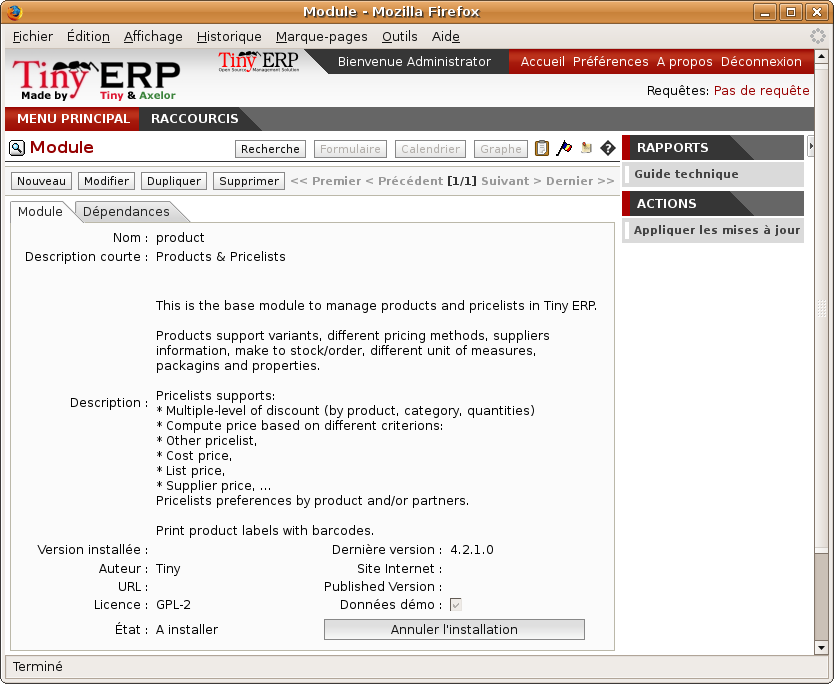
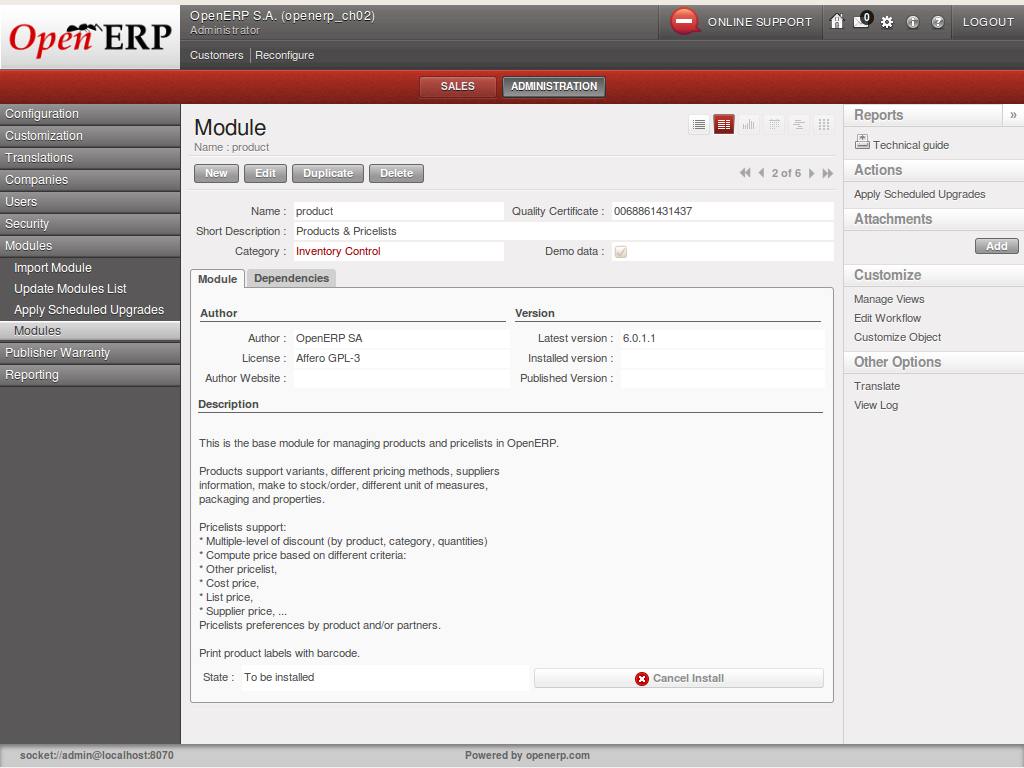
[IMP]: Guided Tour > Installing new functionality

diff --git a/1/1_2_Guided_Tour/1_2_Guided_Tour_install_functionality.rst b/1/1_2_Guided_Tour/1_2_Guided_Tour_install_functionality.rst
@@ -7,13 +7,13 @@ Installing new functionality
 
 All of Open ERP's functionality is contained in its many and various modules. Many of these, the
 core modules, are automatically loaded during the initial installation of the system and can be
-updated online later. Although they're mostly not installed in your database at the outset, they're
+updated online later. Although they are mostly not installed in your database at the outset, they are
 available on your computer for immediate installation. Additional modules can also be loaded online
-from the official Open ERP site http://openerp.com. These modules are inactive when they're loaded
+from the official Open ERP site http://openerp.com. These modules are inactive when they are loaded
 into the system, and can then be installed in a separate step.
 
-You'll start by checking if there are any updates available online that apply to your initial
-installation. Then you'll install a CRM module to complete your existing database.
+You will start by checking if there are any updates available online that apply to your initial
+installation. Then you will install a CRM module to complete your existing database.
 
 .. index::
   single: module; upgrading
@@ -21,30 +21,14 @@ installation. Then you'll install a CRM module to complete your existing databas
 Updating the Modules list
 ---------------------------
 
-Click :menuselection:`Administration --> Modules Management --> Update Modules List` to start the
-updating tool. The :guilabel:`Scan for new modules` window opens showing the addresses that
-Open ERP will look in for downloading new modules (known as the repositories), and updating
+Click :menuselection:`Administration --> Modules --> Update Modules List` to start the
+updating tool. The :guilabel:`Module Update` window opens notifying the user that
+Open ERP will look at the server side for adding new modules and updating
 existing ones.
 
-.. tip:: Remote module repositories
-
-	If the repository list doesn't reflect your needs then you can edit it from
-	:menuselection:`Administration --> Modules Management --> Repository List`. There you can link to new
-	repositories by adding their URLs and disable listed ones by unchecking their 
-	:guilabel:`Active` checkbox. If
-	you're not connected to the Internet then you probably want to disable anything there.
-
-	Your Open ERP installation must be configured with its ``addons`` directory as writable for you to be
-	able to download anything at all. If it hasn't been, then you may need the assistance of a systems
-	administrator to change your server's settings so that you can install new modules.
-
-Click :guilabel:`Check New Modules` to start the download from the specified locations. When it's
-complete you'll see a :guilabel:`New Modules` window indicating how many new modules were downloaded
-and how many existing modules were updated. Click :guilabel:`OK` to return to the updated list.
-
-It won't matter in this chapter if you can't download anything, but some of the later chapters refer
-to modules that aren't part of the core installation and have to be obtained from a remote
-repository.
+Click :guilabel:`Update` to start the update on the server side. When it is
+complete you will see a :guilabel:`Module update result` section indicating how many new modules were added
+and how many existing modules were updated. Click :guilabel:`Open Modules` to return to the updated list.
 
 .. note:: Modules
 
@@ -61,8 +45,9 @@ repository.
 	and :guilabel:`Next`
 	and selecting a different number from the default of 20.
 
-	If you use the GTK client you can search, as you would with the web client, or use the + icon to
-	the top left of the window to change the number of entries returned by the search from its default
+	If you use the GTK client you can search, as you would with the web client, or use the selection field
+	(currently showing 80) to
+	the top right of the window to change the number of entries returned by the search from its default
 	limit of 80, or its default offset of 0 (starting at the first entry) in the whole list.
 
 .. index::
@@ -75,12 +60,12 @@ Installing a module
 .. index::
    single: module; product
 
-You'll now install a module named :mod:`product`, which will enable you to manage the company's
-products. This is part of the core installation, so you don't need to load anything to make this
-work, but isn't installed in the Minimal Profile.
+You will now install a module named :mod:`product`, which will enable you to manage the company's
+products. This is part of the core installation, so you do not need to load anything to make this
+work.
 
-Open the list of uninstalled modules from :menuselection:`Administration --> Modules Management -->
-Modules --> Uninstalled modules`. Search for the module by entering the name :mod:`product` in the search
+Open the list of modules from :menuselection:`Administration --> Modules -->
+Modules`. Search for the module by entering the name :mod:`product` in the :guilabel:`Name` field on the search
 screen then clicking it in the list that appears below it to open it. The form that describes the
 module gives you useful information such as its version number, its status and a review of its
 functionality. Click :guilabel:`Schedule for Installation` 
@@ -98,23 +83,21 @@ and the status of the module changes to :guilabel:`To be installed`.
 
 	If you select a module in any of the module lists by clicking on a module line and then on
 	:guilabel:`Technical Guide` at the top right of the window, Open ERP produces a technical report
-	on that module. It's helpful only if the module is installed, so the menu
-	:menuselection:`Administration --> Modules Management --> Modules --> Installed Modules` produces the most
-	fruitful list.
+	on that module. It is helpful only if the module is installed.
 
 	This report comprises a list of all the objects and all the fields along with their descriptions.
-	The report adapts to your system and reflects any modifications you've made and all the other
-	modules you've installed.
+	The report adapts to your system and reflects any modifications you have made and all the other
+	modules you have installed.
 
-Click :guilabel:`Apply Scheduled Upgrades` then :guilabel:`Start Upgrade` on the :guilabel:`System Upgrade`
-form that appears. Close the window when the operation has completed. Return to the main menu you'll
+Then, either use the menu :menuselection:`Administration --> Modules --> Apply Scheduled Upgrades`, or from the :guilabel:`Actions` section click :guilabel:`Apply Scheduled Upgrades`, then :guilabel:`Start update` on the :guilabel:`Module Upgrade`
+form that appears. Close the window when the operation has completed. Return to the :guilabel:`Sales` menu; you will
 see the new menu :menuselection:`Products` has become available.
 
 .. tip::  Refreshing the menu in the GTK client
 
-	After an update in the GTK client you'll have to open a new menu to refresh the content –
-	otherwise you won't see the new menu item. To do that use the window menu :menuselection:`Form -->
-	Refresh/Cancel`.
+	After an update in the GTK client you will have to open a new menu to refresh the content –
+	otherwise you will not see the new menu item. To do that use the window menu :menuselection:`Form -->
+	Reload / Undo` or use the shortcut :kbd:`Ctrl+R`.
 
 Installing a module with its dependencies
 -----------------------------------------
@@ -123,28 +106,27 @@ Installing a module with its dependencies
    single: module; crm
 
 Now install the CRM module (Customer Relationship Management) using the same process as before.
-Start from :menuselection:`Administration --> Modules Management --> Modules --> Uninstalled modules`.
+Start from :menuselection:`Administration --> Modules --> Modules`.
 
-	#. 	Get the list of modules to install, and search for the :mod:`crm` module in that list.
+	#.  Get the list of modules, and search for the :mod:`crm` module in that list.
 	
-	#.	Schedule the module for installation by clicking :guilabel:`Schedule for Installation`.
+	#.  Schedule the module for installation by clicking :guilabel:`Schedule for Installation`.
 	
 	#.  Do the same for :mod:`account`. 
 	
 	#.  Click :guilabel:`Apply Scheduled Upgrades` on the action toolbar to the right.
 
-	#.	Click :guilabel:`Start Upgrade` to install both modules. 
+	#.  Click :guilabel:`Start update` to install both modules. 
 	
-	#.  After a wait, when the installation is complete, click :guilabel:`Start Configuration`.
+	#.  After a wait, when the installation is complete, you may close this dialog box.
 	
-	#.  Accept the defaults for accounts setup and select ``None`` for the chart of accounts.
-	
-	#.  You'll see details of all the features installed by the modules on a new
+	#.  You will see details of all the features installed by the modules on a new
 	    :guilabel:`Features` tab on the module form. 
 
-When you return to the main menu you'll find the new customer relationship management menu
-:menuselection:`CRM & SRM`. You'll also see all the accounting functions that are now available in
-the :menuselection:`Financial Management` menu.
+When you return to the :menuselection:`Sales` menu you will find the new menu items under it like
+:menuselection:`Sales --> Leads`, :menuselection:`Sales --> Opportunities`, :guilabel:`Meetings` and
+:guilabel:`Phone Calls` which are a part of the customer relationship management system. You will also see
+all the accounting functions that are now available in the :menuselection:`Accounting` menu.
 
 There is no particular relationship between the modules installed and the menus added. Most of the
 core modules add complete menus but some also add submenus to menus already in the system. Other
@@ -157,30 +139,30 @@ forms, or simply additional demonstration data or some settings specific to a gi
 
 .. note::  Dependencies between modules
 
-	The module form shows two tabs before it's installed. 
+	The module form shows two tabs before it is installed. 
 	The first tab gives basic information about the module and the
 	second gives a list of modules that this module depends on. So when you install a module, Open ERP
 	automatically selects all the necessary dependencies to install this module.
 
-	That's also how you develop the profile modules: they simply define a list of modules that you want
+	That is also how you develop the profile modules: they simply define a list of modules that you want
 	in your profile as a set of dependencies.
 
-Although you can install a module and all its dependencies at once, you can't remove them in one
-fell swoop – you'd have to uninstall module by module. Uninstalling is more complex than
+Although you can install a module and all its dependencies at once, you cannot remove them in one
+fell swoop – you would have to uninstall module by module. Uninstalling is more complex than
 installing because you have to handle existing system data.
 
 .. note::  Uninstalling modules
 
-	Although it works quite well, uninstalling modules isn't perfect in Open ERP. It's not guaranteed
+	Although it works quite well, uninstalling modules is not perfect in Open ERP. It is not guaranteed
 	to return the system exactly to the state it was in before installation.
 
-	So it's recommended that you make a backup of the database before installing your new modules so
-	that you can test the new modules and decide whether they're suitable or not. If they're not then
-	you can return to your backup. If they are, then you'll probably still reinstall the modules on
-	your backup so that you don't have to delete all your test data.
+	So it is recommended that you make a backup of the database before installing your new modules so
+	that you can test the new modules and decide whether they are suitable or not. If they are not then
+	you can return to your backup. If they are, then you will probably still reinstall the modules on
+	your backup so that you do not have to delete all your test data.
 
 	If you wanted to uninstall you would use the menu :menuselection:`Administration --> Modules
-	Management --> Modules --> Installed Modules` and then uninstall them in the inverse order of their
+	--> Modules` and then uninstall them in the inverse order of their
 	dependencies: ``crm``, ``account``, ``product``.
 
 Installing additional functionality
@@ -188,7 +170,7 @@ Installing additional functionality
 
 To discover the full range of Open ERP's possibilities you can install many additional modules.
 Installing them with their demonstration data provides a convenient way of exploring the whole core
-system. When you build on the \ ``openerp_ch02``\   database you'll automatically include
+system. When you build on the \ ``openerp_ch02``\   database you will automatically include
 demonstration data because you checked the :guilabel:`Load Demonstration Data` checkbox when you originally
 created the database.
 
@@ -196,37 +178,34 @@ created the database.
    single: module; importing
 ..
 
-Click :menuselection:`Administration --> Modules Management --> Modules --> Uninstalled modules` to give you an
+Click :menuselection:`Administration --> Modules --> Modules` to give you an
 overview of all of the modules available for installation.
 
-To test several modules you won't have to install them all one by one. You can use the dependencies
-between modules to load several at once. For example, try loading the following modules:
+To test several modules you will not have to install them all one by one. You can use the dependencies
+between modules to load several at once.
 
-.. index::
-   single: modules; profile_
+Using Reconfigure wizard
+-------------------------
 
-* :mod:`profile_accounting`,
+One of the new features of OpenERP is the :guilabel:`Reconfigure` wizard. This wizard provides a better handling
+of module installation as it employs a user interface which is easy to use. The user may invoke this wizard at
+his own convenience using the shortcut :guilabel:`Reconfigure`, found just below the database and user name in the web-client. This brings up the same configuration dialog box that you may have encountered at the time of installing a new database. The :guilabel:`Reconfigure` wizard is called so, because it allows the user to review installed applications
+and install additional features (modules) related to them or to install new applications altogether.
 
-* :mod:`profile_crm`,
+When you go through the various steps in the wizard, you will come across some options that are checked
+and greyed. These are applications already installed. In the \ ``openerp_ch02`` \ database configuration,
+you may see that the \ ``Customer Relationship Management`` \ option is already checked because the
+:mod:`crm` module had been installed in this database.
+You may choose to install other applications by checking the options and clicking :guilabel:`Install` or simply proceed by clicking :guilabel:`Skip`. You will eventually also come across the :guilabel:`CRM Application Configuration` step which you may use to add features to your CRM application. For now, select the \ ``Claims`` \ option and click :guilabel:`Configure`. This will in turn install the :mod:`crm_claim` module.
 
-* :mod:`profile_manufacturing`,
+.. figure:: images/reconfigure_wizard.png
+   :scale: 75
+   :align: center
 
-* :mod:`profile_service`.
+   *Reconfigure wizard showing Customer Relationship Management application as installed*
 
-To find these quickly, enter the word \ ``profile``\   in the :guilabel:`Name` field of the search
-form and click :guilabel:`Filter` to search for the relevant modules. Then install them one by one
-or all at once.
-
-As you update you'll see thirty or so modules to be installed. Move on from the 
-:guilabel:`System upgrade done` form by clicking :guilabel:`Start configuration` and then
-accepting the default crm configuration and picking configuration in turn.
-
-Finally install the additional modules :guilabel:`Analytic Accounting` and :guilabel:`Document Management`
-when you're offered that configuration option. Don't install any more - you now have quite a 
-fully-loaded system to look at.
-
-Click :guilabel:`Home` and you'll be returned to a dashboard, not the main menu you had before. To get to
-the main menu, use the :guilabel:`MAIN MENU` link. 
+You may continue adding features this way, skip steps or simply exit from this wizard. When you feel the need to
+load your system with additional features, you may invoke the :guilabel:`Reconfigure` wizard again at any point.
 
 .. Copyright © Open Object Press. All rights reserved.
 
